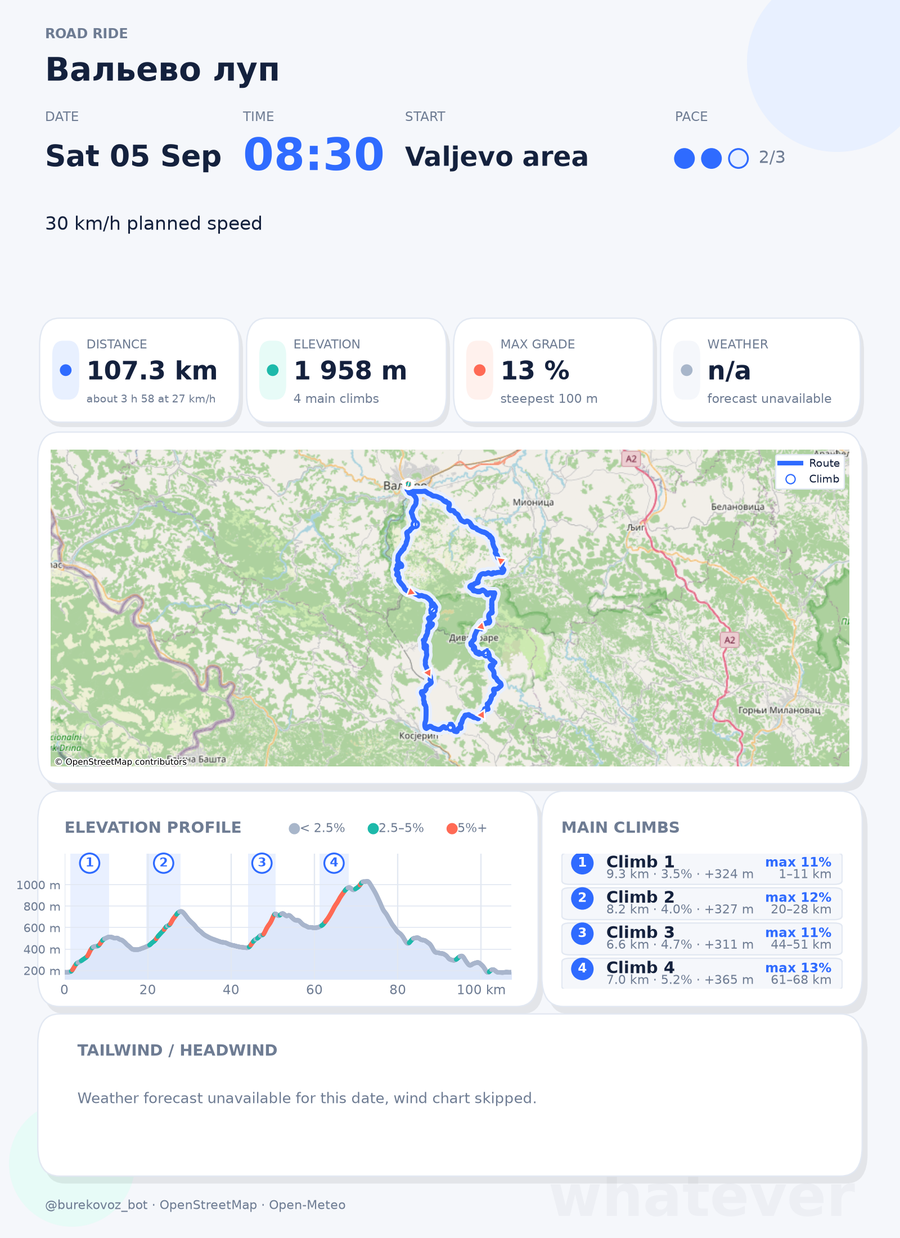
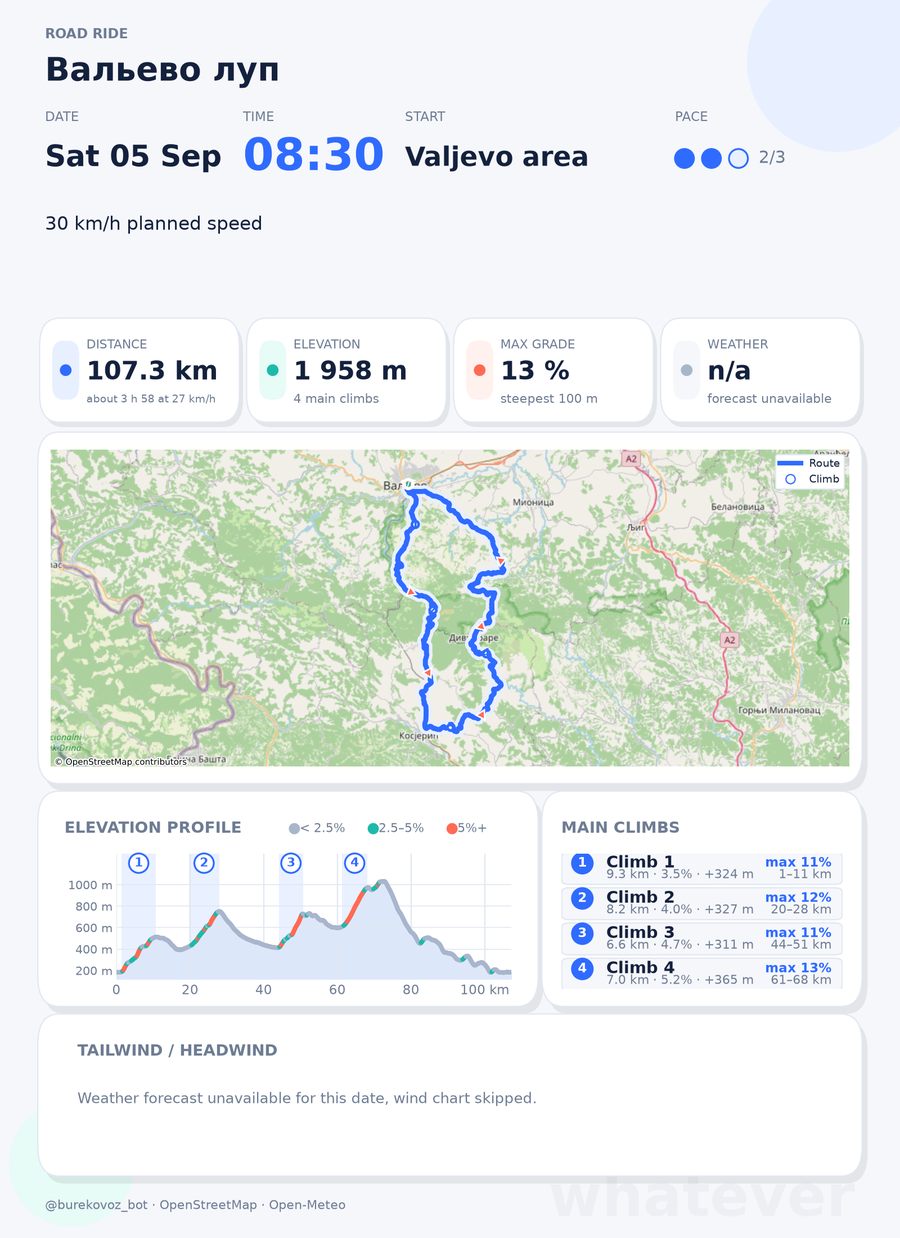
Keep elevation labels inside the profile panel; add an average-wind compass
draw_profile now shifts the axes right by the width of the widest metre
label, so the labels no longer hang outside the panel's left edge.

The map gets a small compass in its top-left corner: the arrow shows
where the ride's average wind blows to (vector mean of the forecast
samples), the label gives the mean speed and the direction it comes from.

Example renders regenerated.

Changed region(s): [[0.0311, 0.6753, 0.4978, 0.7981], [0.4978, 0.7674, 0.56, 0.8288]]

diff --git a/ride_dashboard.py b/ride_dashboard.py
@@ -372,6 +372,63 @@ def build_tiles(route: rp.RouteData, climbs, cfg: dict, samples, speed_kmh: floa
     return tiles
 
 
+COMPASS_POINTS = ["N", "NNE", "NE", "ENE", "E", "ESE", "SE", "SSE", "S", "SSW", "SW", "WSW", "W", "WNW", "NW", "NNW"]
+
+
+def compass_label(deg: float) -> str:
+    return COMPASS_POINTS[int((deg + 11.25) // 22.5) % 16]
+
+
+def mean_wind(samples) -> tuple[float, float, float]:
+    """(mean speed km/h, mean direction the wind comes FROM, mean direction it blows TO).
+
+    Direction is the vector mean so opposite gusts cancel; speed is the plain
+    mean so the label still says how windy the ride is.
+    """
+    speeds = np.array([float(w["wind_speed"]) for _, w in samples])
+    dirs = np.radians([float(w["wind_direction"]) for _, w in samples])
+    u = -speeds * np.sin(dirs)   # x component of where the wind blows to
+    v = -speeds * np.cos(dirs)
+    to_deg = (math.degrees(math.atan2(float(u.mean()), float(v.mean()))) + 360.0) % 360.0
+    return float(speeds.mean()), (to_deg + 180.0) % 360.0, to_deg
+
+
+def draw_wind_compass(fig, ax, samples) -> None:
+    """Small compass in the top-left map corner: arrow shows where the average wind blows to."""
+    avg_speed, from_deg, to_deg = mean_wind(samples)
+    pos = ax.get_position()
+    fig_w, fig_h = fig.get_size_inches()
+    size_in = 0.95
+    w = size_in / (pos.width * fig_w)
+    h = size_in / (pos.height * fig_h)
+    x0, y0 = 0.012, 1.0 - h - 0.025
+    inset = ax.inset_axes([x0, y0, w, h], zorder=25)
+    inset.set_xlim(-1.25, 1.25)
+    inset.set_ylim(-1.25, 1.25)
+    inset.set_aspect("equal")
+    inset.axis("off")
+    inset.add_patch(Circle((0, 0), 1.2, facecolor=CARD, edgecolor=BORDER, linewidth=lw(1.0), alpha=0.97))
+    inset.add_patch(Circle((0, 0), 0.9, facecolor="none", edgecolor=BORDER, linewidth=lw(1.0)))
+    for letter, ang in (("N", 0), ("E", 90), ("S", 180), ("W", 270)):
+        a = math.radians(ang)
+        inset.text(
+            0.9 * math.sin(a), 0.9 * math.cos(a), letter, ha="center", va="center",
+            fontsize=fs(6.5), color=PRIMARY if letter == "N" else SUBTLE, fontweight="bold",
+            bbox=dict(boxstyle="circle,pad=0.18", facecolor=CARD, edgecolor="none"),
+        )
+    t = math.radians(to_deg)
+    dx, dy = math.sin(t), math.cos(t)
+    inset.annotate(
+        "", xy=(0.7 * dx, 0.7 * dy), xytext=(-0.7 * dx, -0.7 * dy),
+        arrowprops=dict(arrowstyle="-|>", color=INK, lw=lw(2.2), mutation_scale=fs(12), shrinkA=0, shrinkB=0),
+    )
+    ax.text(
+        x0 + 0.004, y0 - 0.03, f"Avg wind {avg_speed:.0f} km/h from {compass_label(from_deg)}",
+        transform=ax.transAxes, ha="left", va="top", fontsize=fs(7.5), color=INK, fontweight="bold", zorder=26,
+        bbox=dict(boxstyle="round,pad=0.3", facecolor=CARD, edgecolor=BORDER, linewidth=lw(0.8)),
+    )
+
+
 def _mercator_arrays(route: rp.RouteData) -> tuple[np.ndarray, np.ndarray]:
     pts = [wd.latlon_to_web_mercator(float(la), float(lo)) for la, lo in zip(route.lat, route.lon)]
     return np.array([p[0] for p in pts]), np.array([p[1] for p in pts])
@@ -474,6 +531,8 @@ def draw_map(fig, route: rp.RouteData, climbs, samples) -> None:
         handles.append(plt.Line2D([0], [0], color=PRIMARY, marker="o", markerfacecolor=CARD, markersize=fs(7), linewidth=0, label="Climb"))
     leg = ax.legend(handles=handles, loc="upper right", fontsize=fs(8), frameon=True, framealpha=1.0, facecolor=CARD, edgecolor=BORDER, labelcolor=INK)
     leg.set_zorder(20)
+    if samples:
+        draw_wind_compass(fig, ax, samples)
 
 
 def draw_climb_rows(ax, climbs, max_rows: int = 4) -> None:

diff --git a/ride_poster.py b/ride_poster.py
@@ -833,6 +833,16 @@ def draw_profile(
     ax.grid(axis="x", color=BORDER, linewidth=lw(1.0))
     ax.grid(axis="y", color=BORDER, linewidth=lw(0.8), alpha=0.9)
 
+    # The axes fill the panel, so metre labels would hang outside its left
+    # edge: give up the width of the widest label (plus tick pad) instead.
+    r = _renderer(fig)
+    label_w_px = max((t.get_window_extent(renderer=r).width for t in ax.get_yticklabels()), default=0.0)
+    if label_w_px > 0:
+        pad_px = lw(3.0) * fig.dpi / 72.0 + 0.004 * fig.get_figwidth() * fig.dpi
+        shift = (label_w_px + pad_px) / (fig.get_figwidth() * fig.dpi)
+        pos = ax.get_position()
+        ax.set_position([pos.x0 + shift, pos.y0, max(0.05, pos.width - shift), pos.height])
+
     # Legend and the km unit share the footer band of the panel (figure coords),
     # below the tick labels, so they cannot collide with the chart itself.
     rx, ry, rw, rh = rect

diff --git a/README.md b/README.md
@@ -9,7 +9,7 @@
 
 ## Модули
 
-- `ride_dashboard.py` — единый рендерер картинки заезда. По GPX и JSON-конфигу рисует один PNG 1600×2200: крупная шапка (дата, время, точка старта, темп или диапазон скорости), описание, плитки (дистанция, набор, температура min–max, вероятность дождя min–max), карта на подложке OpenStreetMap с треком, номерами подъёмов и маленькими стрелками ветра, профиль высоты с осью в метрах, список подъёмов (max grade по 100 м), график попутного/встречного ветра по времени и полупрозрачная вотермарка внизу. Прогноз берётся из Open-Meteo; если он недоступен, картинка всё равно строится без погодных блоков.
+- `ride_dashboard.py` — единый рендерер картинки заезда. По GPX и JSON-конфигу рисует один PNG 1600×2200: крупная шапка (дата, время, точка старта, темп или диапазон скорости), описание, плитки (дистанция, набор, температура min–max, вероятность дождя min–max), карта на подложке OpenStreetMap с треком, номерами подъёмов, маленькими стрелками ветра и компасом среднего ветра за заезд, профиль высоты с осью в метрах, список подъёмов (max grade по 100 м), график попутного/встречного ветра по времени и полупрозрачная вотермарка внизу. Прогноз берётся из Open-Meteo; если он недоступен, картинка всё равно строится без погодных блоков.
 - `ride_poster.py` — библиотека: разбор GPX, поиск подъёмов, профиль высоты, панели и подгонка текста. Его CLI по-прежнему рисует старый постер.
 - `weather_dashboard.py` — выборка точек и запрос прогноза, вспомогательные функции карты (Web Mercator, тайлы OSM). Его CLI (`weather_dashboard.py route.gpx -d ДД.ММ.ГГГГ -t ЧЧ:ММ -s 27`) используется `weather_bot.py` и теперь тоже рендерит единый дашборд.
 - `announce_bot.py` — бот полного сценария анонса (дата, маршрут, старт/финиш, темп, комментарий, картинка). Длину и набор маршрута берёт из API Komoot (сглаженные значения), при недоступности — считает по GPX. Дашборд строится через `ride_dashboard.py` как subprocess; при правке даты, времени, названия, старта, темпа или комментария он пересобирается автоматически перед предпросмотром.
